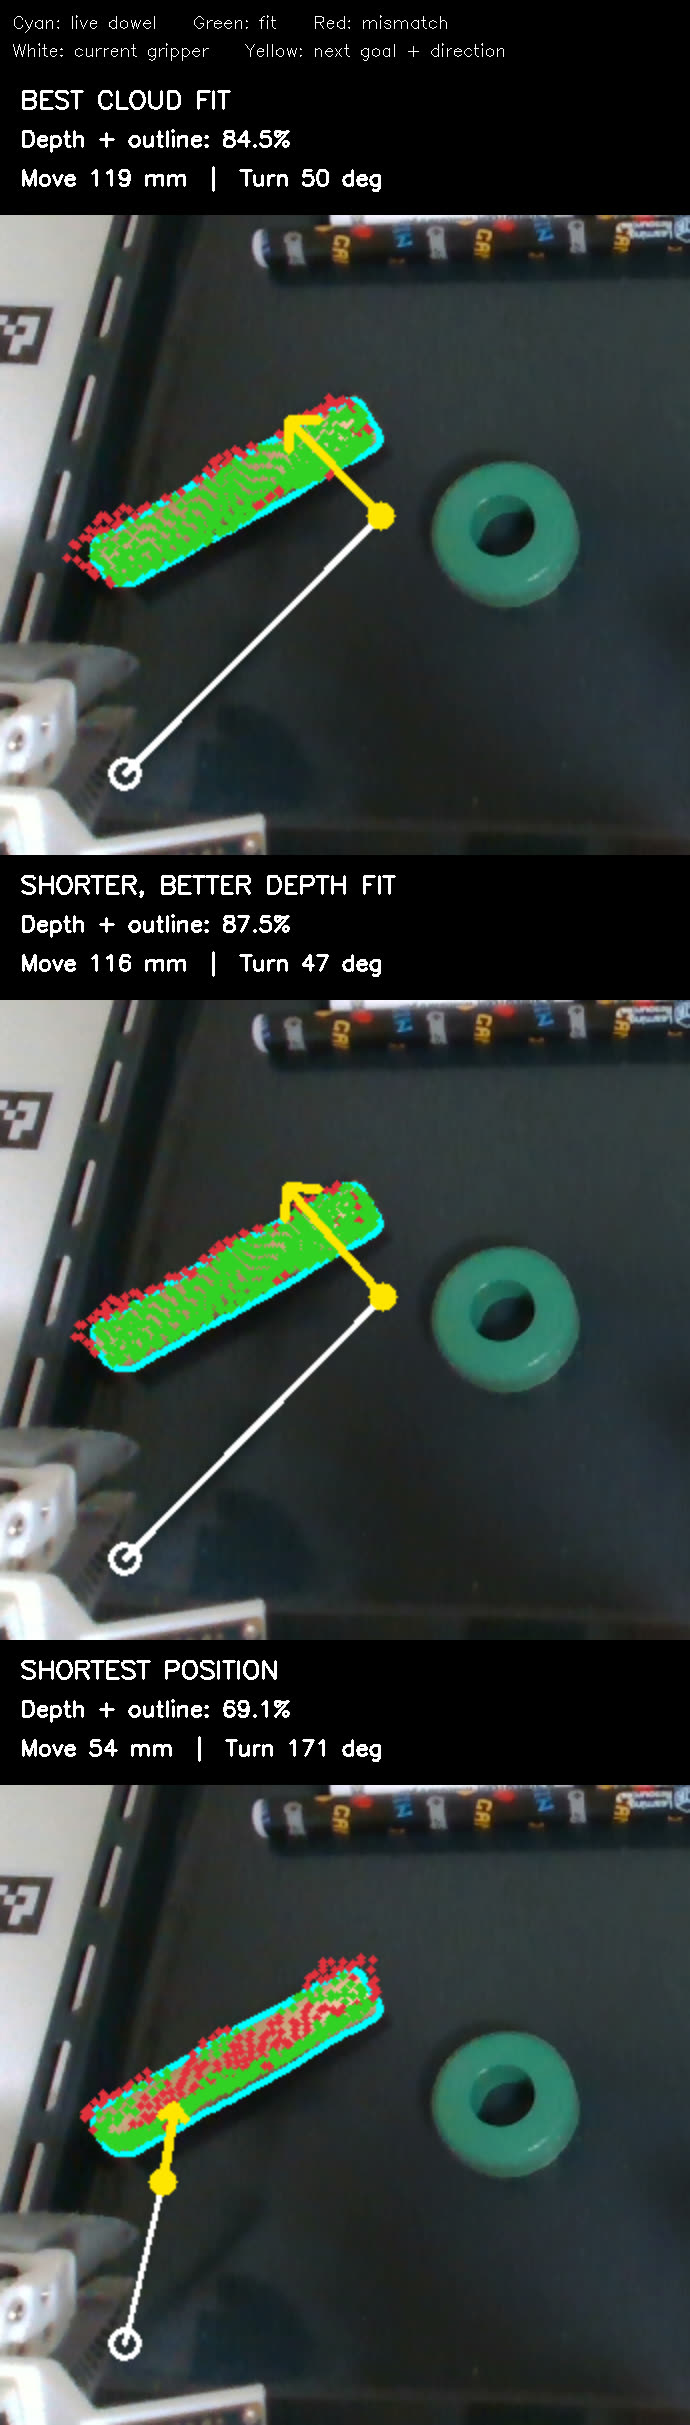
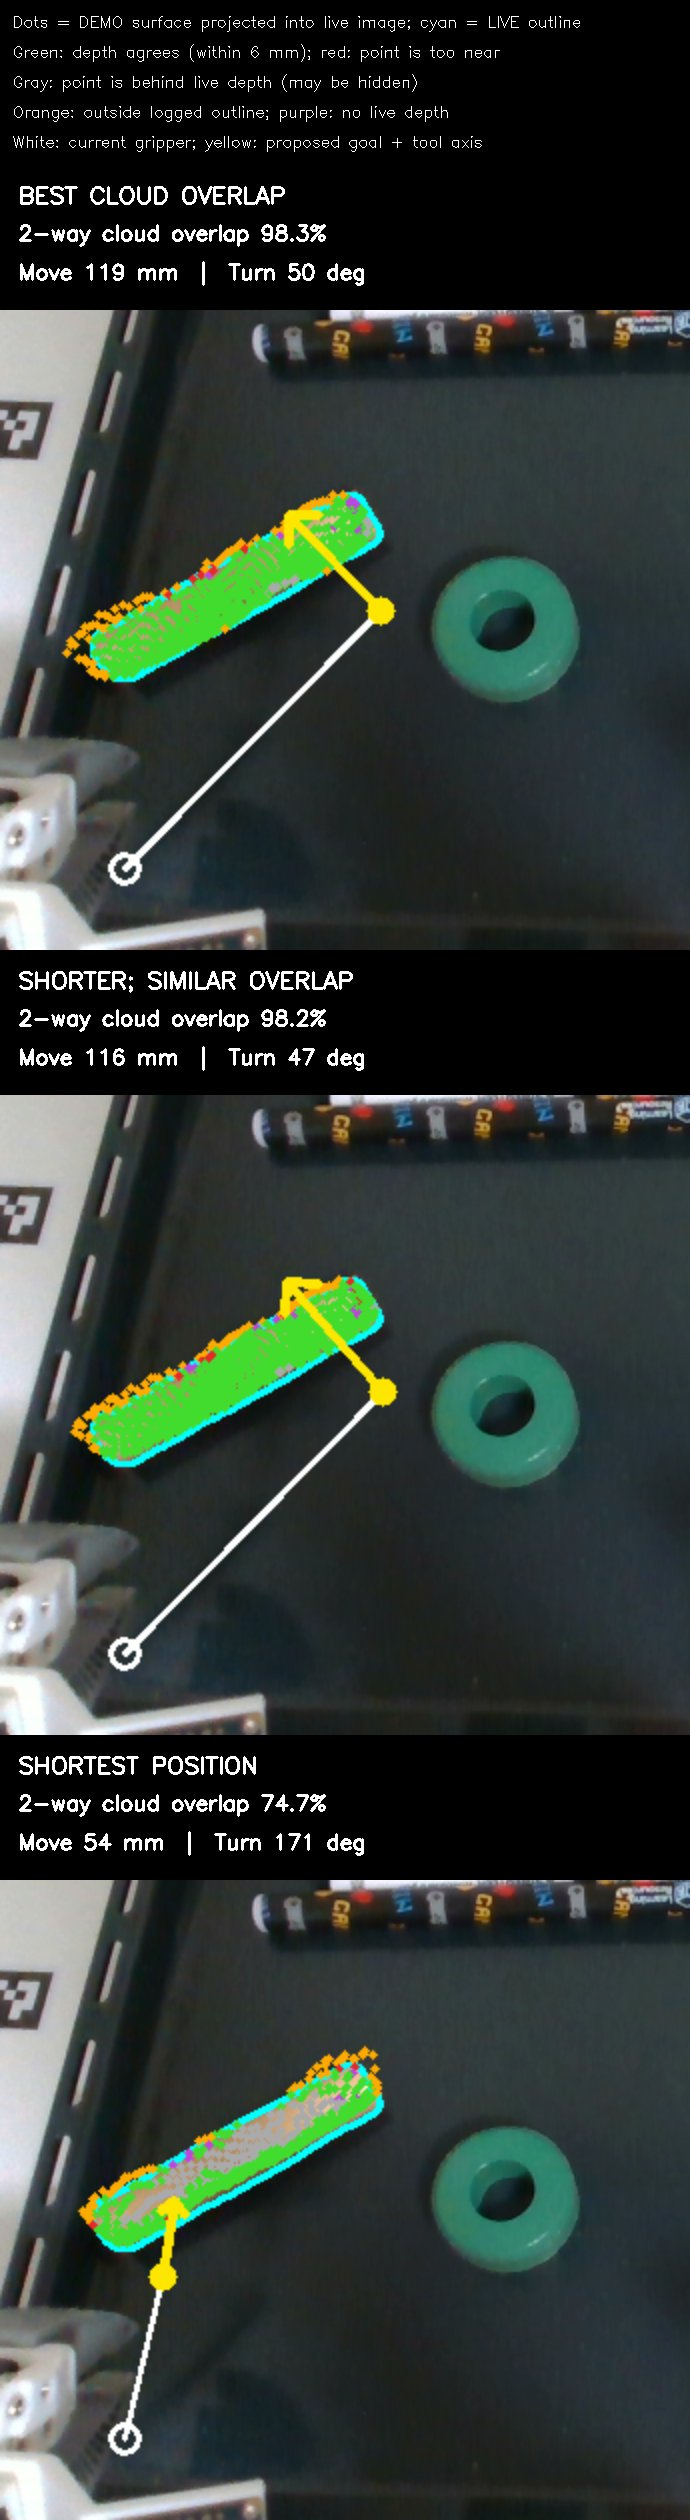
Clarify projected-surface mismatch evidence
Separate unsupported demo projections into front-of-depth, behind-depth, outside-outline, and missing-depth cases. Correct the geometry-fit conclusion so unconfirmed points are not mistaken for physical conflicts.

diff --git a/docs/proofs/flash-geometry-sequence/EVIDENCE.md b/docs/proofs/flash-geometry-sequence/EVIDENCE.md
@@ -32,28 +32,46 @@ The [reproducible audit](../../../benchmarks/flash_cross_run_goal_choice.py) and
 | 19:11       | 98.8%, 98.8 mm, 38.9°                           | 83.9%, 60.5 mm, 166.3°                       |
 | 20:33       | 98.3%, 118.9 mm, 50.3°                          | 74.7%, 54.2 mm, 170.8°                       |
 
-Thus the shortest **position-only** goal in these candidate sets is a poor
-surface match and needs almost a half-turn of the gripper. Matching provides
-alternative alignments; it does not itself choose the shortest useful action.
-In the 20:33 trial the shortest-position candidate also explains only 69.1% of
-the projected demo depth points inside the live dowel outline and depth band,
-versus 84.5% for the top nearest-cloud candidate. It would be rejected by a
-stronger observation check. **This is not a counterexample to choosing the
-least move among observation-supported fits.**
+The shortest **position-only** goal in these candidate sets has lower two-way
+nearest-cloud coverage and needs almost a half-turn of the gripper. The
+registration supplies alternative alignments; it does not select the shortest
+useful action. The earlier version of the figure colored every unconfirmed
+projected point red and called it a mismatch. That was misleading. **Every dot
+is a measured demo/source surface point projected into the live image**, not a
+point sampled from the live/target surface. The revised figure separates the
+reasons that a projected source point fails the exact-pixel observation check:
 
-![Three alignments of the same demo dowel to one recorded live frame. Green projected demo depth points agree with the live outline and depth; red points disagree. White marks the current gripper, yellow the candidate approach goal and tool-axis direction.](goal-choice-203310.jpg)
+| 20:33 candidate          | Agrees with live depth and outline | Nearer than live depth, inside outline | Behind live depth, inside outline | Outside logged outline | No live depth, inside outline |
+| ------------------------ | ---------------------------------: | -------------------------------------: | --------------------------------: | ---------------------: | ----------------------------: |
+| Best cloud overlap       |                              3,160 |                                     65 |                                69 |                    388 |                            57 |
+| Shorter, similar overlap |                              3,270 |                                     43 |                                15 |                    350 |                            61 |
+| Shortest position        |                              2,583 |                                     46 |                               774 |                    307 |                            29 |
+
+Each candidate projects 3,739 demo points. Green points agree within the
+diagnostic 6 mm depth band. Red points project **in front of** measured live
+depth, so they are potential direct conflicts. Gray points are behind measured
+live depth and might be hidden surfaces; orange points fall outside the saved
+live outline; purple points have no live depth. The old trial stores a polygon
+for the live outline, not the original binary SAM mask, so boundary counts are
+approximate. None of the non-green categories alone proves an impossible fit.
+In particular, 69.1% green support for the shortest-position candidate does
+**not** imply 30.9% conflicting geometry. Whether it is acceptable requires a
+visibility-aware check, not just this plotted fraction.
+
+![Three alignments of measured demo surface points projected into one live frame. Green points agree with live depth, red are nearer, gray are behind it, orange are outside the logged outline, and purple have no live depth. White marks the current gripper; yellow marks the candidate approach goal and tool axis.](goal-choice-203310.jpg)
 
 The proposed surface-first strategy remains viable: check the candidate against
 the observed geometry, then compare the resulting full gripper goals for the
 next keyframe and choose a feasible low-motion one. For example, in the 20:33
 trial a second strong candidate covered 98.2% versus the best candidate's
 98.3%, while reducing the straight-line position change from 118.9 to 116.3 mm
-and the turn from 50.3° to 46.5°. Its projected mask-and-depth agreement is
-also better, 87.5% versus 84.5%. This does not need a named dowel symmetry
-rule; it does need an explicit motion choice among supported matches. The four
-clear starts yielded **no demonstrated counterexample** to choosing the least
-motion among fully checked geometric matches; that hypothesis remains to be
-tested through the ordered live stages.
+and the turn from 50.3° to 46.5°. Its exact-pixel mask-and-depth support is
+also higher, 87.5% versus 84.5%; that fraction is a diagnostic, not a calibrated
+fit-validity score. This does not need a named dowel symmetry rule; it does
+need an explicit motion choice among supported matches. The four clear starts
+yielded **no demonstrated counterexample** to choosing the least motion among
+fully checked geometric matches; that hypothesis remains to be tested through
+the ordered live stages.
 
 These numbers are **Cartesian goal differences**, not collision-free path
 lengths or completed actions. The saved registration ranking uses nearest-cloud
